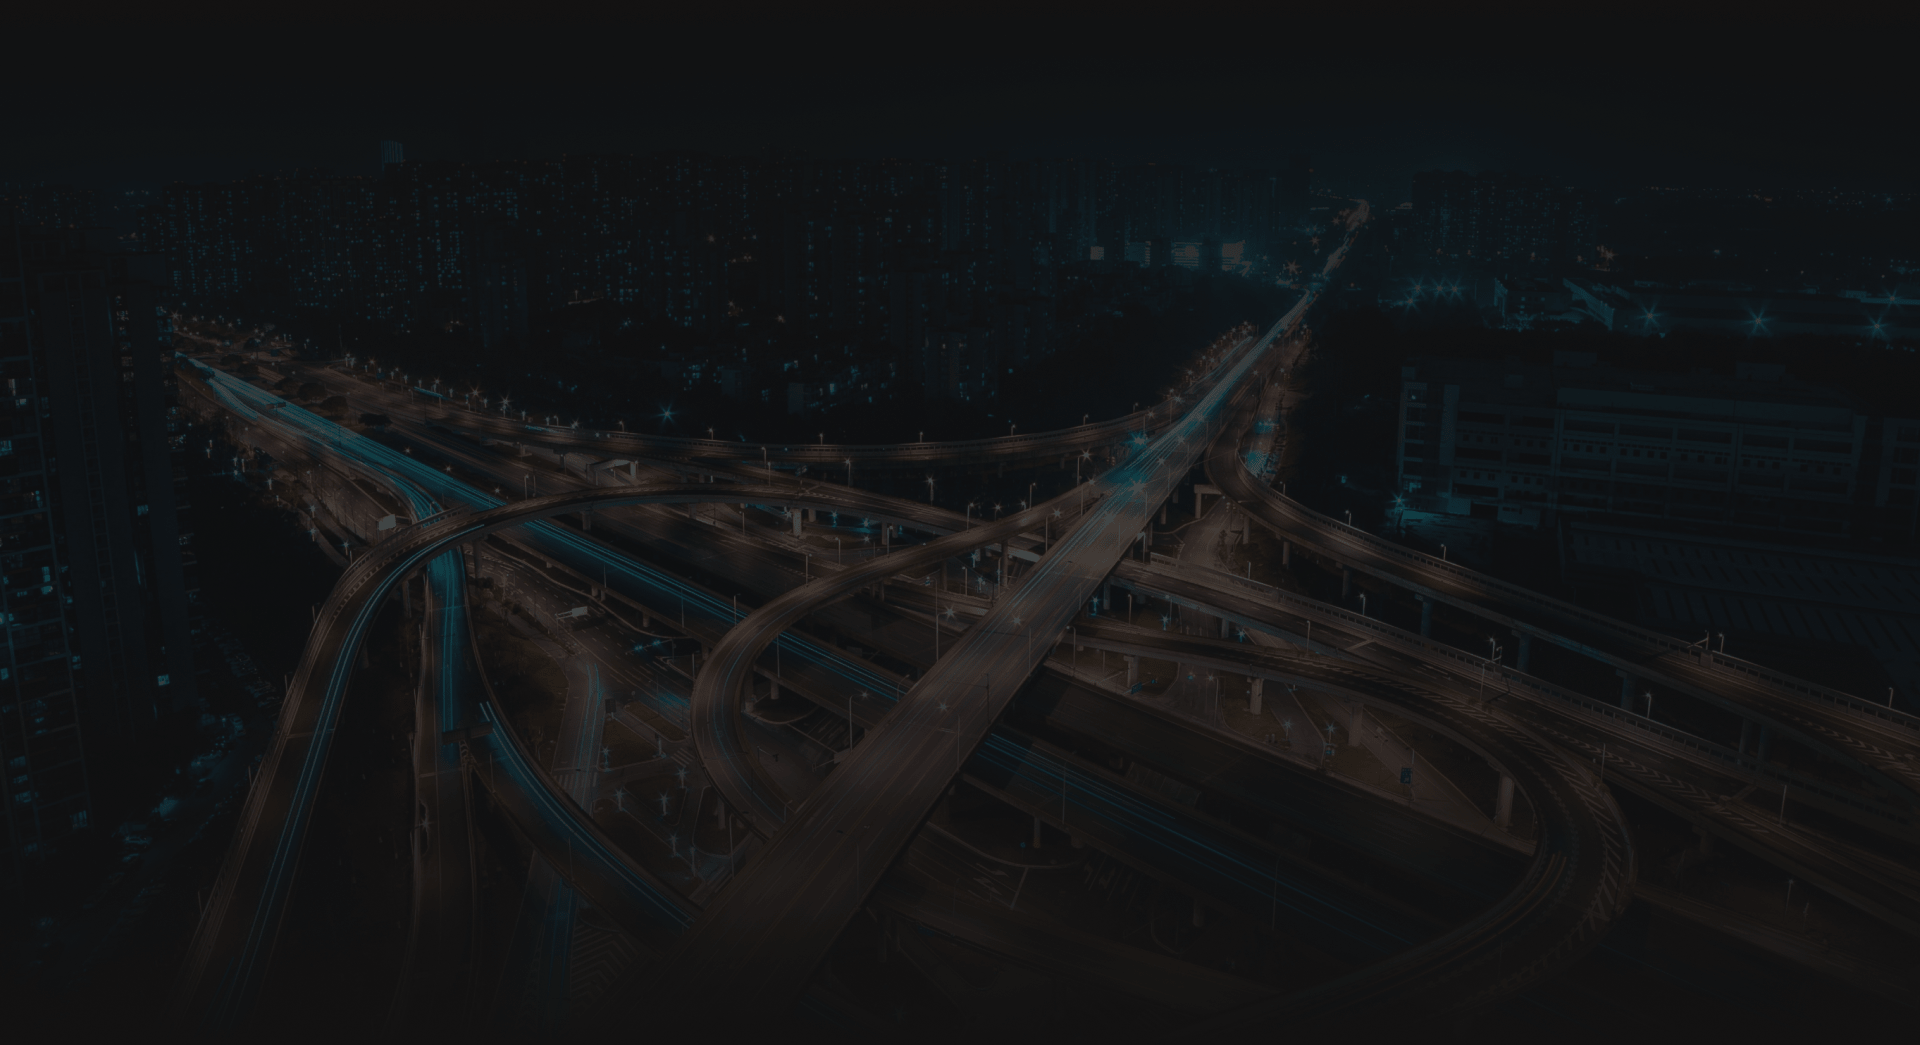
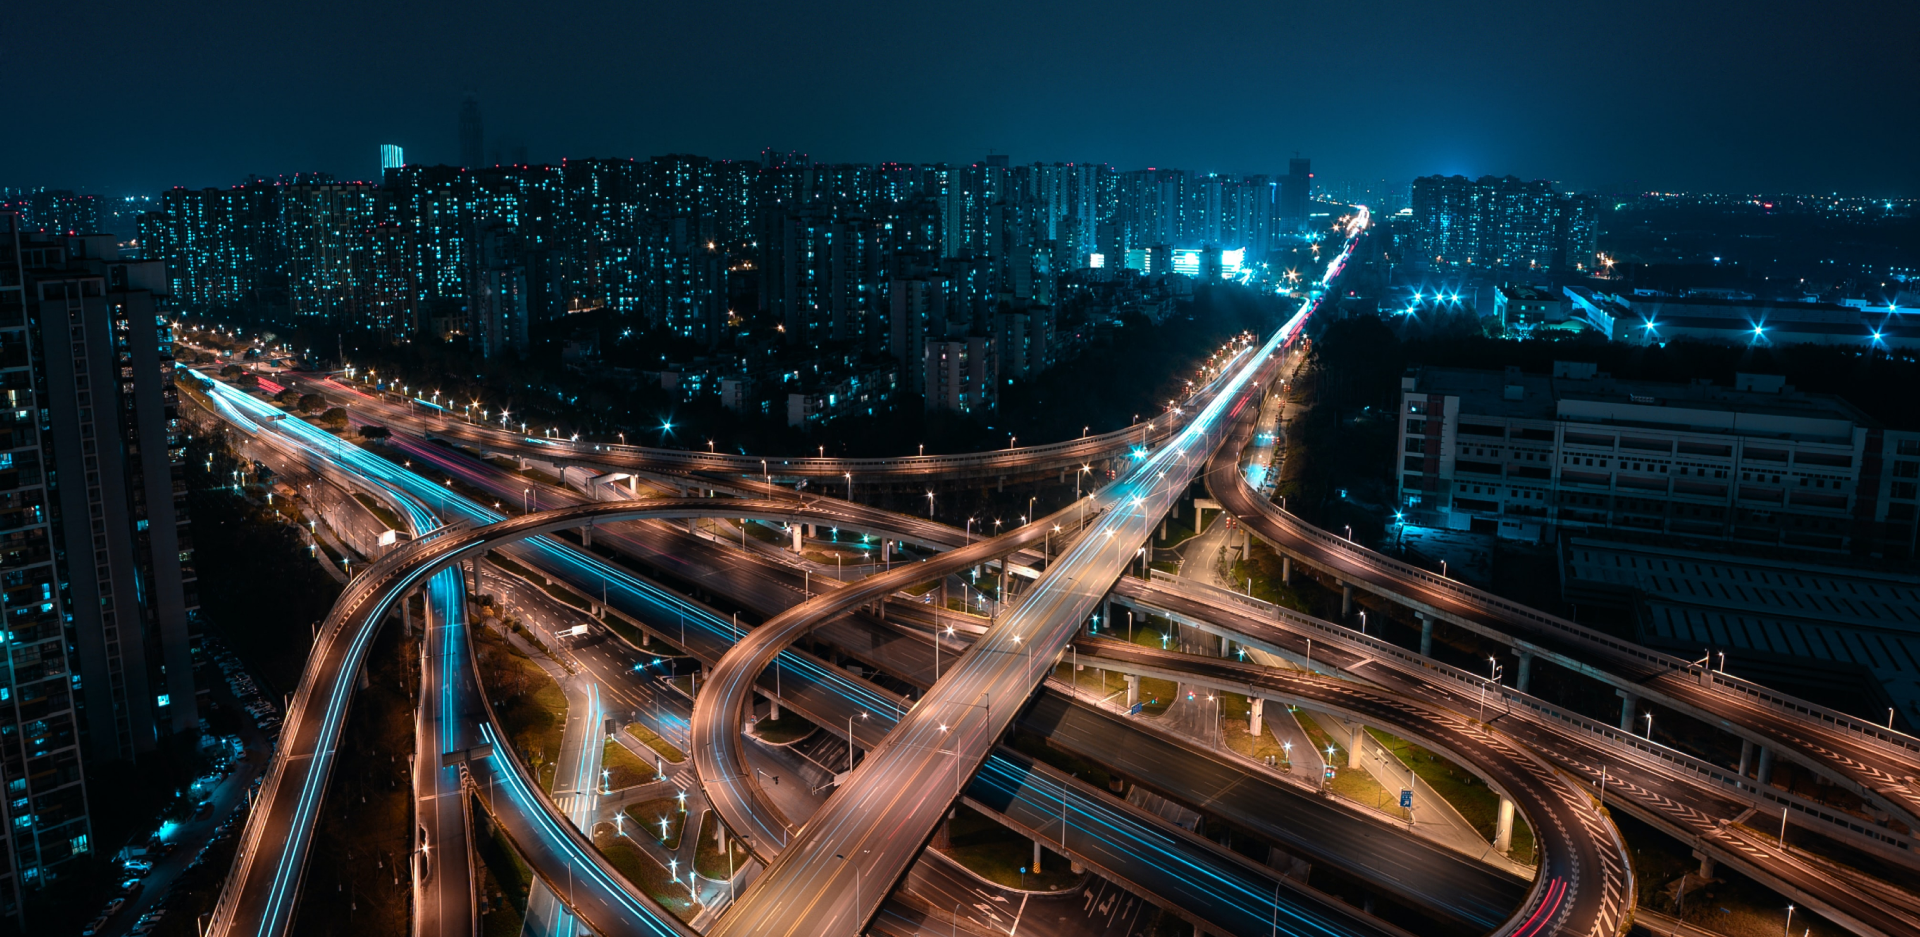
logga

diff --git a/components/Homepage/WhyUs.vue b/components/Homepage/WhyUs.vue
@@ -6,7 +6,7 @@
       som specialiserar sig inom branschen och utför säkra och kvalitativa
       installationer av marknadsledande laddboxar
     </p>
-    <h4>Vi har erfarenhet av mer än tusen lyckade installationer</h4>
+    <h3>Vi har erfarenhet av mer än tusen lyckade installationer</h3>
     <nuxt-link to="/om"
       ><ButtonGhost btn_text="Läs mer" class="ghost"
     /></nuxt-link>
@@ -20,22 +20,22 @@ export default {}
 <style lang="scss" scoped>
 #whyus__section {
   font-family: $headline;
-  height: 70vh;
+  height: 100vh;
   color: $white;
   background: linear-gradient(
       180deg,
-      #121212 0%,
-      rgba(18, 18, 18, 0.178) 85.56%,
-      #121212 100%
+      #0b0b0b 8.54%,
+      rgba(11, 11, 11, 0.6) 49.76%,
+      rgba(11, 11, 11, 0.94) 84.44%,
+      #0b0b0b 96.51%
     ),
     url('@/assets/images/background_roads.png');
   background-size: cover;
   background-repeat: no-repeat;
-  padding: 10%;
   display: flex;
   flex-direction: column;
   justify-content: center;
-
+  padding: 0 15%;
   .text {
     width: 60%;
     padding: 1.5rem 0;
@@ -46,12 +46,13 @@ export default {}
 }
 @media only screen and (max-width: 900px) {
   #whyus__section {
-    background: linear-gradient(
-        180deg,
-        #121212 0%,
-        rgba(18, 18, 18, 0.74) 51.56%,
-        #121212 100%
-      ),
+    background:linear-gradient(
+      180deg,
+      #0b0b0b 8.54%,
+      rgba(11, 11, 11, 0.6) 49.76%,
+      rgba(11, 11, 11, 0.94) 84.44%,
+      #0b0b0b 96.51%
+    ),
       url('@/assets/images/background_roads_pad.png');
 
     background-position: center;

diff --git a/components/app/NavDesktop.vue b/components/app/NavDesktop.vue
@@ -2,7 +2,7 @@
   <div class="wrapper__nav_desktop">
     <div class="image-container">
       <img
-        src="@/assets/logo/logo_full_white.png"
+        src="@/assets/logo/logo_full_white.svg"
         alt="logo with name of company"
         class="logo"
       />
@@ -33,8 +33,7 @@ export default {}
   grid-template-areas: 'logo links btn';
   grid-template-columns: 20% 55% 25%;
   align-items: center;
-  justify-items: center;
-  padding: 2rem;
+  padding: 1.5rem;
   background-color: $black;
   box-shadow: $box_shadow;
   z-index: 5;
@@ -46,18 +45,20 @@ export default {}
     img {
       width: 100%;
       height: auto;
-      shape-rendering: crispEdges;
+      shape-rendering: geometricPrecision;
     }
   }
 
   .links {
     grid-area: links;
+    display: flex;
+    justify-content: center;
 
     a {
       font-family: $headline;
-      font-size: 1.2rem;
-      font-weight: 300;
-      padding: 2rem;
+      font-size: 1.175rem;
+      font-weight: 200;
+      padding: 0 1.5rem;
       color: $white;
       text-decoration: none;
     }
@@ -66,6 +67,9 @@ export default {}
   .ghost {
     grid-area: btn;
     justify-self: flex-start;
+    align-self: flex-start;
+    margin-right: auto;
+    margin-left: 0;
     padding: 6px 30px;
     font-size: 1rem;
   }

diff --git a/assets/css/_variables.scss b/assets/css/_variables.scss
@@ -1,7 +1,8 @@
-$black: #121212;
+$black: #0B0B0B;
 $white: #fbf9ff;
 
-$dark_bg: #121212;
+$dark_bg: #0B0B0B;
+
 $light_bg: #ffffff;
 
 $headline: 'Saira', sans-serif;
@@ -15,6 +16,11 @@ $shadow__box-whiteBG: 0px 4px 4px rgba(0, 0, 0, 0.25);
 //box-shadow
 $box_shadow: 0px 5px 10px rgba(0, 0, 0, 0.25);
 $radio_shadow: 0px 4px 4px rgba(0, 0, 0, 0.25);
+$shadow_btn_black: 0px 8px 15px rgba(0, 0, 0, 0.295);
+$shadow_btn_black-hover: 0px 15px 20px rgba(255, 255, 255, 0.219);
+
+$shadow_btn_white: 0px 8px 15px rgba(0, 0, 0, 0.1);
+$shadow_btn_white-hover: 0px 15px 20px rgba(15, 15, 15, 0.603);
 
 // Zaptec colors
 $asphalt_black: #15181c;

diff --git a/components/Laddbox/Images.vue b/components/Laddbox/Images.vue
@@ -62,6 +62,7 @@ export default {
 <style lang="scss" scoped>
 .wrapper__images {
   .box {
+
     .images {
       display: flex;
       justify-content: center;
@@ -86,6 +87,7 @@ export default {
     .colorPicker {
       width: 100%;
       justify-self: center;
+      margin: 2.5rem 2rem;
     }
   }
 }
@@ -95,6 +97,11 @@ export default {
       img {
         margin: 0.5rem;
       }
+    }
+
+    .colorPicker {
+      justify-self: center;
+      margin: 1rem 1rem;
     }
   }
 }

diff --git a/assets/css/_fonts.scss b/assets/css/_fonts.scss
@@ -41,7 +41,8 @@ h2 {
 }
 
 h3 {
-  font-size: 1.5rem;
+  font-size: 1.7rem;
+  font-weight: 400;
 }
 
 h4 {
@@ -50,10 +51,14 @@ h4 {
 }
 
 .text__standard {
-  font-size: 1.5rem;
+  font-size: 1.75rem;
+  line-height: 150%;
   font-weight: 100;
+  font-family: $text;
 }
 
 .text__secondary {
   font-size: 1.125rem;
+  font-family: $text;
+
 }

diff --git a/pages/laddbox.vue b/pages/laddbox.vue
@@ -45,11 +45,11 @@ export default {}
 <style lang="scss">
 .wrapper__laddbox {
   min-height: 100vh;
-  padding: 10%;
+  padding: 15% 15%;
   display: grid;
   grid-template-areas: 'laddbox info';
   grid-template-columns: 40% 50%;
-  grid-gap: 3rem;
+  grid-gap: 5rem;
   font-family: $headline;
   justify-content: center;
 

diff --git a/assets/css/_mixins.scss b/assets/css/_mixins.scss
@@ -1,10 +1,10 @@
 @mixin btn {
   background: none;
   border-radius: 50px;
-  padding: 8px 36px;
-  box-shadow: $shadow__btn-primary;
+  padding: 10px 36px;
   font-family: $headline;
-  font-weight: 400;
+  font-weight: 200;
+  letter-spacing: 1.25px;
   font-size: 1.125rem;
   display: flex;
   align-self: flex-start;

diff --git a/components/Button/Ghost.vue b/components/Button/Ghost.vue
@@ -14,6 +14,13 @@ export default {
 .ghost__btn {
   @include btn;
   color: $white;
-  border: 2px solid $white;
+  border: 1.5px solid $white;
+  transition: all 0.15s ease-in;
+  
+  &:hover {
+    background: $white;
+    color: $black;
+    font-weight: 500;
+  }
 }
 </style>

diff --git a/components/Button/PrimaryBlack.vue b/components/Button/PrimaryBlack.vue
@@ -19,5 +19,12 @@ export default {
   display: flex;
   justify-content: center;
   border: none;
+  box-shadow: $shadow_btn_black;
+  transition: all 0.3s ease-in-out;
+
+    &:active {
+  box-shadow: $shadow_btn_black-hover;
+  transform: scale(1.03);
+}
 }
 </style>

diff --git a/components/Button/Primary.vue b/components/Button/Primary.vue
@@ -16,5 +16,12 @@ export default {
   border: none;
   background: $white;
   color: $black;
+  box-shadow: $shadow_btn_white;
+  transition: all 0.3s ease 0s;
+
+  &:hover {
+  box-shadow: $shadow_btn_white-hover;
+
+}
 }
 </style>

diff --git a/components/Laddbox/Buttons.vue b/components/Laddbox/Buttons.vue
@@ -28,6 +28,11 @@ export default {
   font-family: $text;
   width: 100%;
 
+  button {
+    box-shadow: $shadow_btn_white;
+    background: $white;
+  }
+
   .left,
   .right {
     padding: 8px 36px;

diff --git a/components/app/Footer.vue b/components/app/Footer.vue
@@ -52,7 +52,7 @@ export default {
     img {
       width: 100%;
       height: auto;
-      shape-rendering: crispEdges;
+      shape-rendering: geometricPrecision;
     }
   }
 
